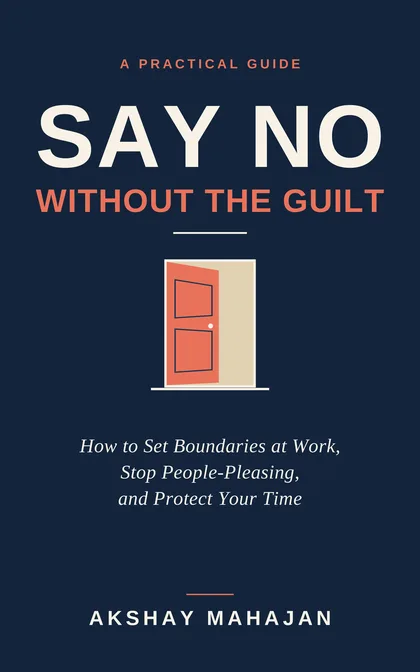
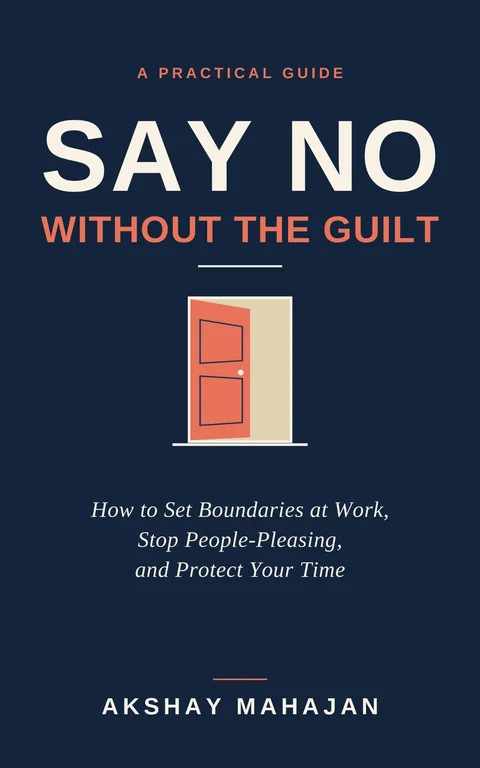
Books page: use the original cover files at higher resolution
Replaces the cropped screenshot covers with the original cover images
(480x768 webp) for all five books.

Claude-Session: https://claude.ai/code/session_01LmeSshuTUK3AFhFS2Pr6br

diff --git a/pages/Books.tsx b/pages/Books.tsx
@@ -69,8 +69,8 @@ const BookCard: React.FC<{ book: Book }> = ({ book }) => (
       <img
         src={book.cover}
         alt={`Cover of ${book.title} by Akshay Mahajan`}
-        width={420}
-        height={672}
+        width={480}
+        height={768}
         loading="lazy"
         decoding="async"
         className="aspect-[5/8] h-auto w-full max-w-[150px] shrink-0 self-start rounded-[4px] object-cover shadow-[0_10px_30px_-12px_rgba(15,23,42,0.45)] sm:w-[130px]"
